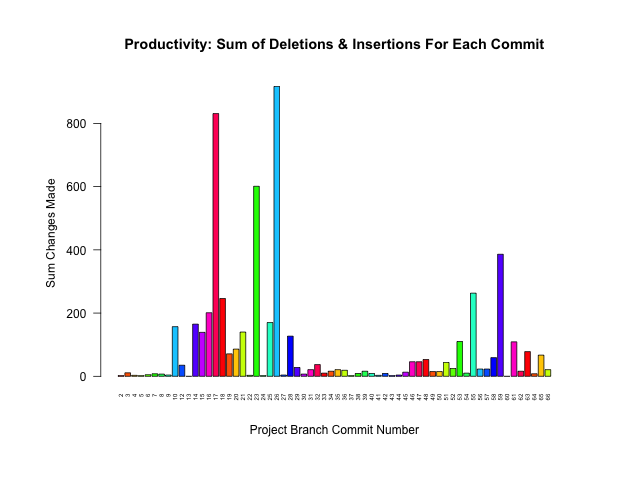
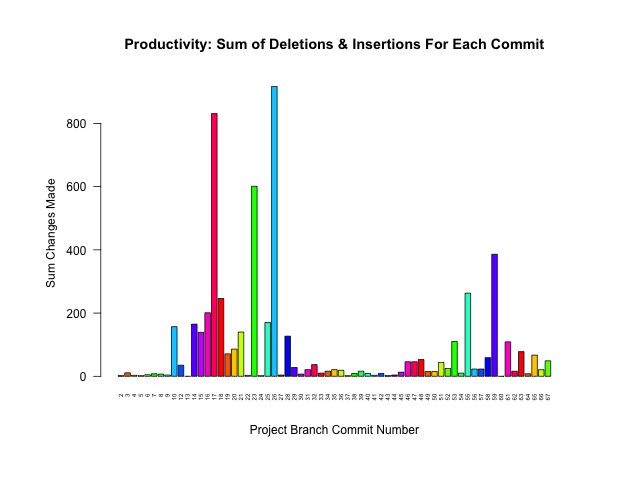
COMMIT #82

Changed region(s): [[0.25, 0.1562, 0.875, 0.8438]]

diff --git a/README.md b/README.md
@@ -16,7 +16,7 @@ ProjectName::BranchName.data
 
 Project Name | Last Updated | Number of Commits
 :---|:---|:---
-minishell_project                        |  2023-02-03  |  66
+minishell_project                        |  2023-02-03  |  67
 ft_printf_project                        |  2023-01-27  |  36
 FASTQ_examiner_project                   |  2023-01-27  |  30
 test_non-fastforward_merge-push_project  |  2023-01-27  |  15
